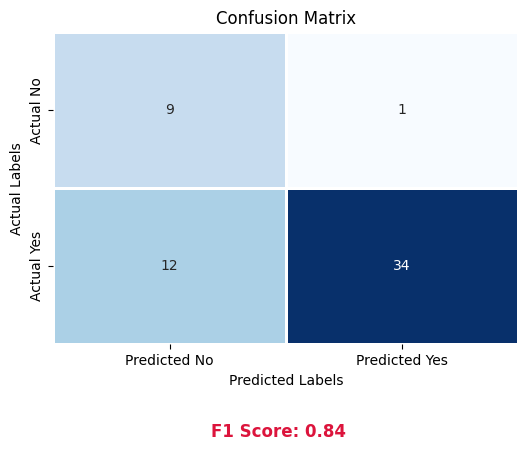
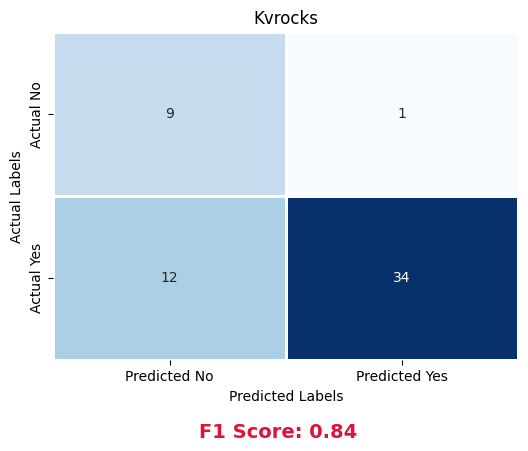
Graph changes for title

diff --git a/FinalAnalysis/pygwalker_graph.py b/FinalAnalysis/pygwalker_graph.py
@@ -3,7 +3,6 @@ import seaborn as sns
 from sklearn.metrics import confusion_matrix, f1_score
 import numpy as np
 
-# Updated data from code analysis (predicted labels)
 code_analysis = [
     "No", "Yes", "No", "Yes", "Yes", "Yes", "No", "Yes", "No", "Yes", "No", "Yes", 
     "No", "No", "Yes", "Yes", "No", "No", "Yes", "No", "No", "No", "No", "Yes", 
@@ -13,7 +12,6 @@ code_analysis = [
     "No", "Yes", "Yes", "No"
 ]
 
-# Updated data from manual analysis (true labels)
 manual_analysis = [
     "No", "Yes", "No", "Yes", "Yes", "Yes", "No", "Yes", "No", "Yes", "Yes", "Yes", 
     "No", "No", "Yes", "Yes", "Yes", "Yes", "Yes", "No", "Yes", "No", "No", "Yes", 
@@ -23,7 +21,6 @@ manual_analysis = [
     "Yes", "Yes", "Yes", "No"
 ]
 
-# Mapping "Yes" to 1, "No" to 0, and ignoring "N/A" and "<>"
 def map_labels(data):
     return [1 if label == "Yes" else 0 if label == "No" else None for label in data]
 
@@ -42,26 +39,23 @@ cm = confusion_matrix(filtered_true_labels, filtered_predicted_labels)
 f1 = f1_score(filtered_true_labels, filtered_predicted_labels)
 
 # Plot the confusion matrix using seaborn heatmap
-plt.figure(figsize=(6, 4))  # Adjusted the height of the figure
+plt.figure(figsize=(6, 4))
 sns.heatmap(cm, annot=True, fmt='d', cmap='Blues', cbar=False, 
             xticklabels=['Predicted No', 'Predicted Yes'], 
             yticklabels=['Actual No', 'Actual Yes'],
-            linewidths=1, linecolor='white')  # Added white border between cells
+            linewidths=1, linecolor='white')
 
-plt.title('Confusion Matrix')
+plt.title('PyGWalker')
 plt.xlabel('Predicted Labels')
 plt.ylabel('Actual Labels')
 
-# Adjust the layout to reduce the space for F1 score
-plt.subplots_adjust(bottom=0.15)  # Decreased bottom margin
+plt.subplots_adjust(bottom=0.06)
 
 # Display the F1 score below the plot in crimson
-plt.figtext(0.5, -0.12, f'F1 Score: {f1:.2f}', ha='center', va='center', fontsize=12, color='crimson', weight='bold')
+plt.figtext(0.5, -0.12, f'F1 Score: {f1:.2f}', ha='center', va='center', fontsize=14, color='crimson', weight='bold')
 
 # Save the plot as a PNG file
 plt.savefig('pygwalker_graph_result.png', bbox_inches='tight')
 
 # Close the plot to avoid issues in non-interactive environments
 plt.close()
-
-print("Plot saved as 'updated_confusion_matrix_with_f1_score_red_final.png'")

diff --git a/FinalAnalysis/celeborn_graph.py b/FinalAnalysis/celeborn_graph.py
@@ -3,7 +3,6 @@ import seaborn as sns
 from sklearn.metrics import confusion_matrix, f1_score
 import numpy as np
 
-# Updated data from code analysis (predicted labels)
 code_analysis = [
     "Yes", "Yes", "Yes", "No", "No", "Yes", "Yes", "No", "No", "No", "Yes", "Yes", 
     "Yes", "Yes", "No", "No", "Yes", "Yes", "No", "No", "Yes", "No", "No", "No", 
@@ -13,7 +12,6 @@ code_analysis = [
     "Yes", "No", "Yes", "No"
 ]
 
-# Updated data from manual analysis (true labels)
 manual_analysis = [
     "Yes", "Yes", "Yes", "Yes", "No", "Yes", "Yes", "Yes", "Yes", "No", "Yes", "Yes", 
     "Yes", "Yes", "No", "No", "Yes", "Yes", "Yes", "No", "Yes", "Yes", "No", "No", 
@@ -22,7 +20,6 @@ manual_analysis = [
     "Yes", "Yes", "No", "Yes", "Yes", "Yes", "No", "Yes", "Yes", "Yes", "Yes", "No"
 ]
 
-# Mapping "Yes" to 1, "No" to 0, and ignoring "N/A" and "<>"
 def map_labels(data):
     return [1 if label == "Yes" else 0 if label == "No" else None for label in data]
 
@@ -41,21 +38,20 @@ cm = confusion_matrix(filtered_true_labels, filtered_predicted_labels)
 f1 = f1_score(filtered_true_labels, filtered_predicted_labels)
 
 # Plot the confusion matrix using seaborn heatmap
-plt.figure(figsize=(6, 4))  # Adjusted the height of the figure
+plt.figure(figsize=(6, 4))
 sns.heatmap(cm, annot=True, fmt='d', cmap='Blues', cbar=False, 
             xticklabels=['Predicted No', 'Predicted Yes'], 
             yticklabels=['Actual No', 'Actual Yes'],
-            linewidths=1, linecolor='white')  # Added white border between cells
+            linewidths=1, linecolor='white')
 
-plt.title('Confusion Matrix')
+plt.title('Celeborn')
 plt.xlabel('Predicted Labels')
 plt.ylabel('Actual Labels')
 
-# Adjust the layout to reduce the space for F1 score
-plt.subplots_adjust(bottom=0.15)  # Decreased bottom margin
+plt.subplots_adjust(bottom=0.06)
 
-# Display the F1 score below the plot in crimson
-plt.figtext(0.5, -0.12, f'F1 Score: {f1:.2f}', ha='center', va='center', fontsize=12, color='crimson', weight='bold')
+# Display the F1 score below the plot
+plt.figtext(0.5, -0.12, f'F1 Score: {f1:.2f}', ha='center', va='center', fontsize=14, color='crimson', weight='bold')
 
 # Save the plot as a PNG file
 plt.savefig('celeborn_graph_result.png', bbox_inches='tight')

diff --git a/FinalAnalysis/resDB_graph.py b/FinalAnalysis/resDB_graph.py
@@ -3,7 +3,6 @@ import seaborn as sns
 from sklearn.metrics import confusion_matrix, f1_score
 import numpy as np
 
-# Updated data from code analysis (predicted labels)
 code_analysis = [
     "Yes", "Yes", "Yes", "No", "No", "Yes", "Yes", "No", "Yes", "No", "Yes", "Yes", 
     "No", "No", "No", "Yes", "Yes", "No", "Yes", "Yes", "No", "No", "No", "No", 
@@ -13,7 +12,6 @@ code_analysis = [
     "Yes", "No", "Yes", "No", "No"
 ]
 
-# Updated data from manual analysis (true labels)
 manual_analysis = [
     "Yes", "Yes", "Yes", "Yes", "No", "Yes", "Yes", "No", "Yes", "No", "Yes", "Yes", 
     "<>", "No", "No", "Yes", "Yes", "No", "Yes", "Yes", "Yes", "Yes", "No", "Yes", 
@@ -23,7 +21,6 @@ manual_analysis = [
     "Yes", "No", "Yes", "Yes", "No", "Yes", "No", "No"
 ]
 
-# Mapping "Yes" to 1, "No" to 0, and ignoring "N/A" and "<>"
 def map_labels(data):
     return [1 if label == "Yes" else 0 if label == "No" else None for label in data]
 
@@ -42,20 +39,19 @@ cm = confusion_matrix(filtered_true_labels, filtered_predicted_labels)
 f1 = f1_score(filtered_true_labels, filtered_predicted_labels)
 
 # Plot the confusion matrix using seaborn heatmap with borders
-plt.figure(figsize=(6, 4))  # Adjusted the height of the figure
+plt.figure(figsize=(6, 4))
 sns.heatmap(cm, annot=True, fmt='d', cmap='Blues', cbar=False, 
             xticklabels=['Predicted No', 'Predicted Yes'], 
             yticklabels=['Actual No', 'Actual Yes'],
-            linewidths=1, linecolor='white')  # Added borders between the cells
-plt.title('Confusion Matrix')
+            linewidths=1, linecolor='white')
+plt.title('ResDB')
 plt.xlabel('Predicted Labels')
 plt.ylabel('Actual Labels')
 
-# Adjust the layout to reduce the space for F1 score
-plt.subplots_adjust(bottom=0.15)  # Decreased bottom margin
+plt.subplots_adjust(bottom=0.06)
 
 # Display the F1 score below the plot in red (adjust color as per your need)
-plt.figtext(0.5, -0.12, f'F1 Score: {f1:.2f}', ha='center', va='center', fontsize=12, color='crimson', weight='bold')
+plt.figtext(0.5, -0.12, f'F1 Score: {f1:.2f}', ha='center', va='center', fontsize=14, color='crimson', weight='bold')
 
 # Save the plot as a PNG file
 plt.savefig('resDB_graph_result.png', bbox_inches='tight')

diff --git a/FinalAnalysis/kvrocks_graph.py b/FinalAnalysis/kvrocks_graph.py
@@ -3,7 +3,6 @@ import seaborn as sns
 from sklearn.metrics import confusion_matrix, f1_score
 import numpy as np
 
-# Data from code analysis (predicted labels)
 code_analysis = [
     "Yes", "Yes", "No", "No", "Yes", "NA", "No", "Yes", "No", "Yes", "No", "No", 
     "Yes", "Yes", "Yes", "No", "Yes", "Yes", "Yes", "No", "No", "Yes", "Yes", "No", 
@@ -12,7 +11,6 @@ code_analysis = [
     "Yes", "No", "Yes", "Yes", "Yes", "No", "Yes", "Yes", "Yes", "No", "Yes"
 ]
 
-# Data from manual analysis (true labels)
 manual_analysis = [
     "Yes", "Yes", "Yes", "No", "Yes", "NA", "Yes", "Yes", "Yes", "Yes", "Yes", "No", 
     "Yes", "Yes", "Yes", "No", "Yes", "Yes", "Yes", "Yes", "No", "Yes", "Yes", "No", 
@@ -21,7 +19,6 @@ manual_analysis = [
     "Yes", "Yes", "Yes", "Yes", "No", "Yes", "Yes", "Yes", "Yes", "Yes"
 ]
 
-# Mapping "Yes" to 1, "No" to 0, and ignoring "N/A"
 def map_labels(data):
     return [1 if label == "Yes" else 0 if label == "No" else None for label in data]
 
@@ -40,20 +37,20 @@ cm = confusion_matrix(filtered_true_labels, filtered_predicted_labels)
 f1 = f1_score(filtered_true_labels, filtered_predicted_labels)
 
 # Plot the confusion matrix using seaborn heatmap
-plt.figure(figsize=(6, 4))  # Adjusted the height of the figure
+plt.figure(figsize=(6, 4))
 sns.heatmap(cm, annot=True, fmt='d', cmap='Blues', cbar=False, 
             xticklabels=['Predicted No', 'Predicted Yes'], 
             yticklabels=['Actual No', 'Actual Yes'],
             linewidths=1, linecolor='white')
-plt.title('Confusion Matrix')
+            
+plt.title('Kvrocks')
 plt.xlabel('Predicted Labels')
 plt.ylabel('Actual Labels')
 
-# Adjust the layout to reduce the space for F1 score
-plt.subplots_adjust(bottom=0.1)  # Decreased bottom margin
+plt.subplots_adjust(bottom=0.06)
 
-# Display the F1 score below the plot in red
-plt.figtext(0.5, -0.12, f'F1 Score: {f1:.2f}', ha='center', va='center', fontsize=12, color='crimson', weight='bold')
+# Display the F1 score below the plot
+plt.figtext(0.5, -0.12, f'F1 Score: {f1:.2f}', ha='center', va='center', fontsize=14, color='crimson', weight='bold')
 
 # Save the plot as a PNG file
 plt.savefig('kvrocks_graph_result.png', bbox_inches='tight')

diff --git a/FinalAnalysis/openDAL_graph.py b/FinalAnalysis/openDAL_graph.py
@@ -3,7 +3,6 @@ import seaborn as sns
 from sklearn.metrics import confusion_matrix, f1_score
 import numpy as np
 
-# Data from code analysis (predicted labels)
 code_analysis = [
     "Yes", "Yes", "No", "Yes", "Yes", "N/A", "No", "Yes", "No", "Yes", "Yes", "No", 
     "Yes", "Yes", "No", "Yes", "Yes", "Yes", "No", "No", "No", "Yes", "Yes", "No", 
@@ -13,7 +12,6 @@ code_analysis = [
     "No", "Yes", "No", "Yes"
 ]
 
-# Data from manual analysis (true labels)
 manual_analysis = [
     "Yes", "Yes", "Yes", "Yes", "Yes", "NA", "Yes", "Yes", "Yes", "Yes", "Yes", "No", 
     "Yes", "Yes", "Yes", "Yes", "Yes", "Yes", "Yes", "Yes", "No", "Yes", "Yes", "No", 
@@ -23,7 +21,6 @@ manual_analysis = [
     "No", "Yes", "Yes", "Yes"
 ]
 
-# Mapping "Yes" to 1, "No" to 0, and ignoring "N/A"
 def map_labels(data):
     return [1 if label == "Yes" else 0 if label == "No" else None for label in data]
 
@@ -42,20 +39,19 @@ cm = confusion_matrix(filtered_true_labels, filtered_predicted_labels)
 f1 = f1_score(filtered_true_labels, filtered_predicted_labels)
 
 # Plot the confusion matrix using seaborn heatmap
-plt.figure(figsize=(6, 4))  # Adjusted the height of the figure
+plt.figure(figsize=(6, 4))  
 sns.heatmap(cm, annot=True, fmt='d', cmap='Blues', cbar=False, 
             xticklabels=['Predicted No', 'Predicted Yes'], 
             yticklabels=['Actual No', 'Actual Yes'],
             linewidths=1, linecolor='white')
-plt.title('Confusion Matrix')
+plt.title('OpenDAL')
 plt.xlabel('Predicted Labels')
 plt.ylabel('Actual Labels')
 
-# Adjust the layout to reduce the space for F1 score
-plt.subplots_adjust(bottom=0.1)  # Decreased bottom margin
+plt.subplots_adjust(bottom=0.06)
 
 # Display the F1 score below the plot in red
-plt.figtext(0.5, -0.12, f'F1 Score: {f1:.2f}', ha='center', va='center', fontsize=12, color='crimson', weight='bold')
+plt.figtext(0.5, -0.12, f'F1 Score: {f1:.2f}', ha='center', va='center', fontsize=14, color='crimson', weight='bold')
 
 # Save the plot as a PNG file
 plt.savefig('openDAL_graph_result.png', bbox_inches='tight')
